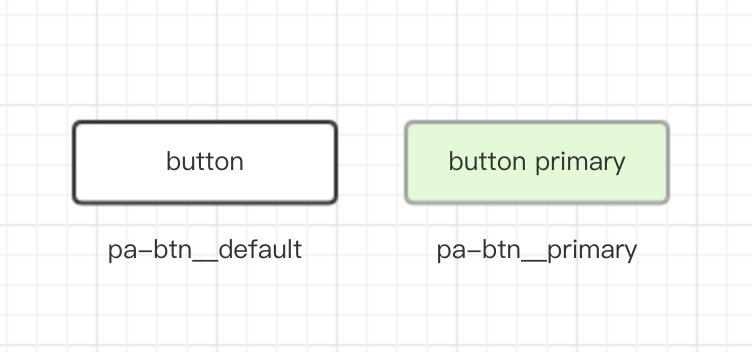
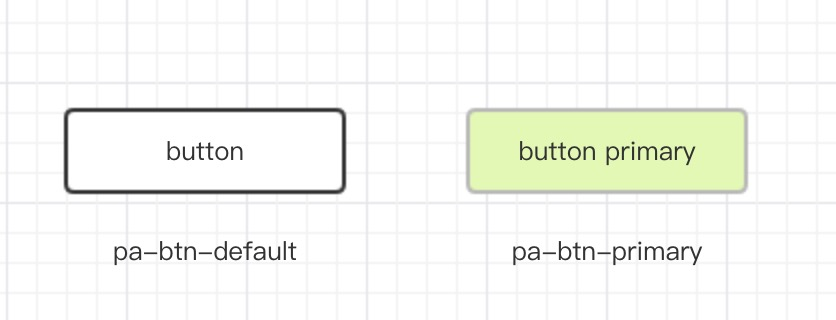
chore: 组件开发规范文档更新；

diff --git a/docs/component-specs.md b/docs/component-specs.md
@@ -38,17 +38,17 @@ date: "2018-07-27"
 
 ## 样式类名
 
-样式名使用全小写的命名方式，单词间使用 `-` 作为分隔符，同一个元素不同状态使用 `__` 分割，推荐类名添加组织或者公司名称或者缩写作为命名空间，虽然在实践中可以使用 `scope` 来避免命名冲突导致的样式覆盖，出于方便区分自定类与组件内部类，推荐添加命名空间作为类名前缀，命名空间与类名之间使用 `-` 作为分割。
+样式名使用全小写的命名方式，单词间使用 `-` 作为分隔符，推荐类名添加组织或者公司名称或者缩写作为命名空间，虽然在实践中可以使用 `scope` 来避免命名冲突导致的样式覆盖，出于方便区分自定类与组件内部类，推荐添加命名空间作为类名前缀，命名空间与类名之间使用 `-` 作为分割。
 
 这里以 button 为示例，如下图：
 
 ![pa-btn](resources/pa-btn.jpg)
 
-默认样式的按钮和基础样式的按钮，pa-btn__default, pa-btn__primary
+默认样式的按钮和基础样式的按钮，pa-btn-default, pa-btn-primary
 
 其中 `pa-btn` 就是按钮所有样式的前缀，由组织 pandolajs 缩写 `pa` 和按钮名称 button 缩写 `btn` 组成，使用 `-` 进行分割。
 
-不同的状态或者类型，如上例 `default`, `primary` 与前缀进行拼接，使用 `__` 进行分割。
+不同的状态或者类型，如上例 `default`, `primary` 与前缀进行拼接，同样使用 `-` 进行分割。
 
 在 less 中可以按照以下格式进行开发。
 
